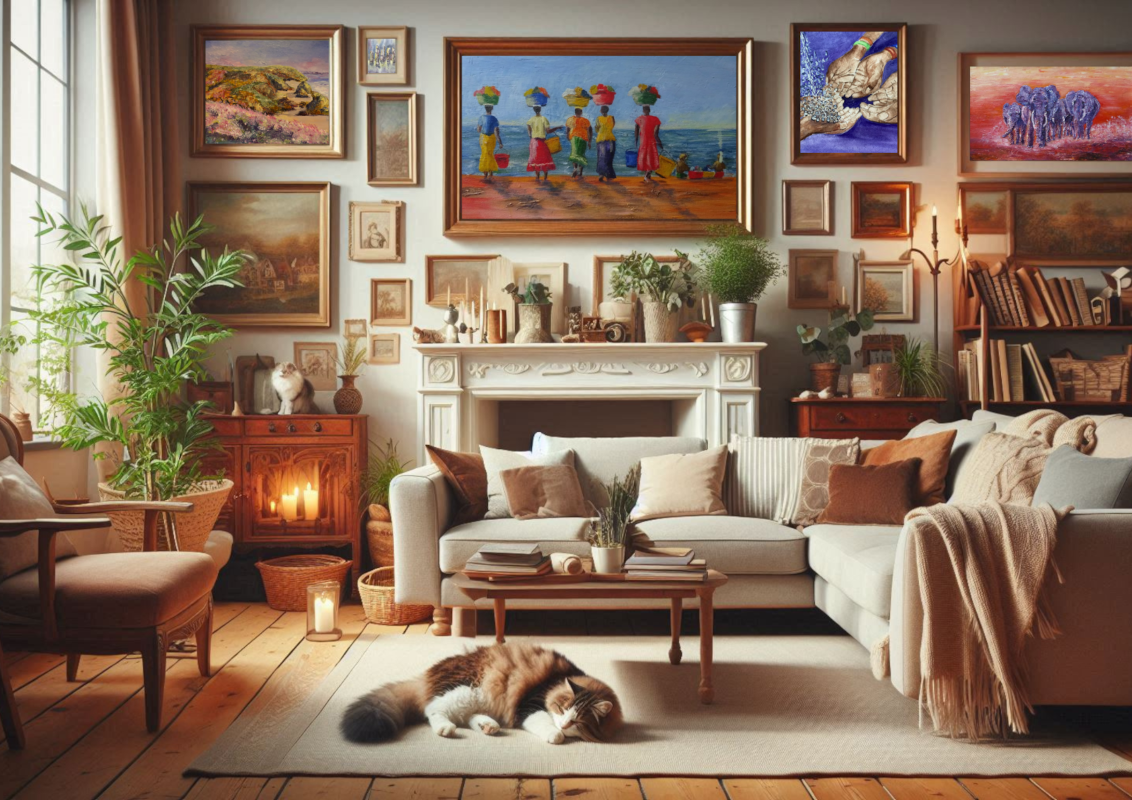
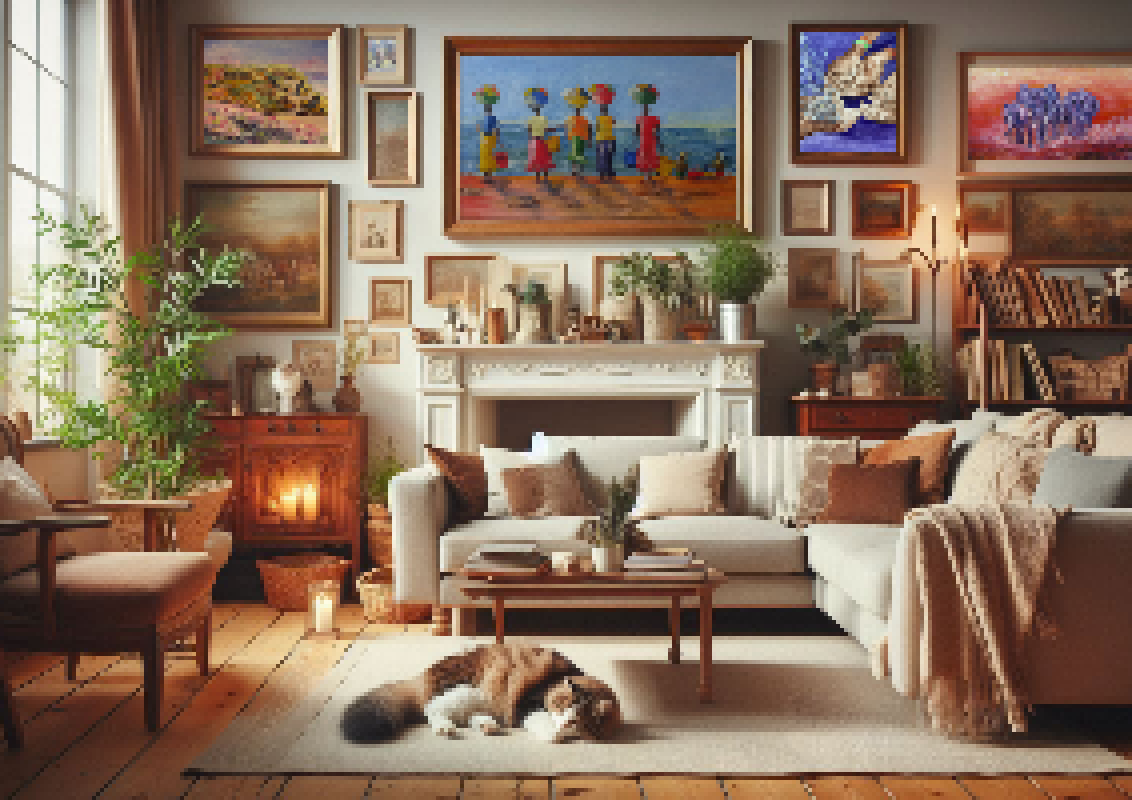
perf: pixelate background

diff --git a/src/main.rs b/src/main.rs
@@ -6,7 +6,7 @@ use std::time::{Duration, Instant};
 
 use image_utils::{convert_to_mono, draw_raindrop, draw_square, is_collision};
 use image_utils::{get_background_for_score, load_background_data};
-use crate::image_utils::draw_text;
+use image_utils::draw_text;
 
 mod image_utils;
 
